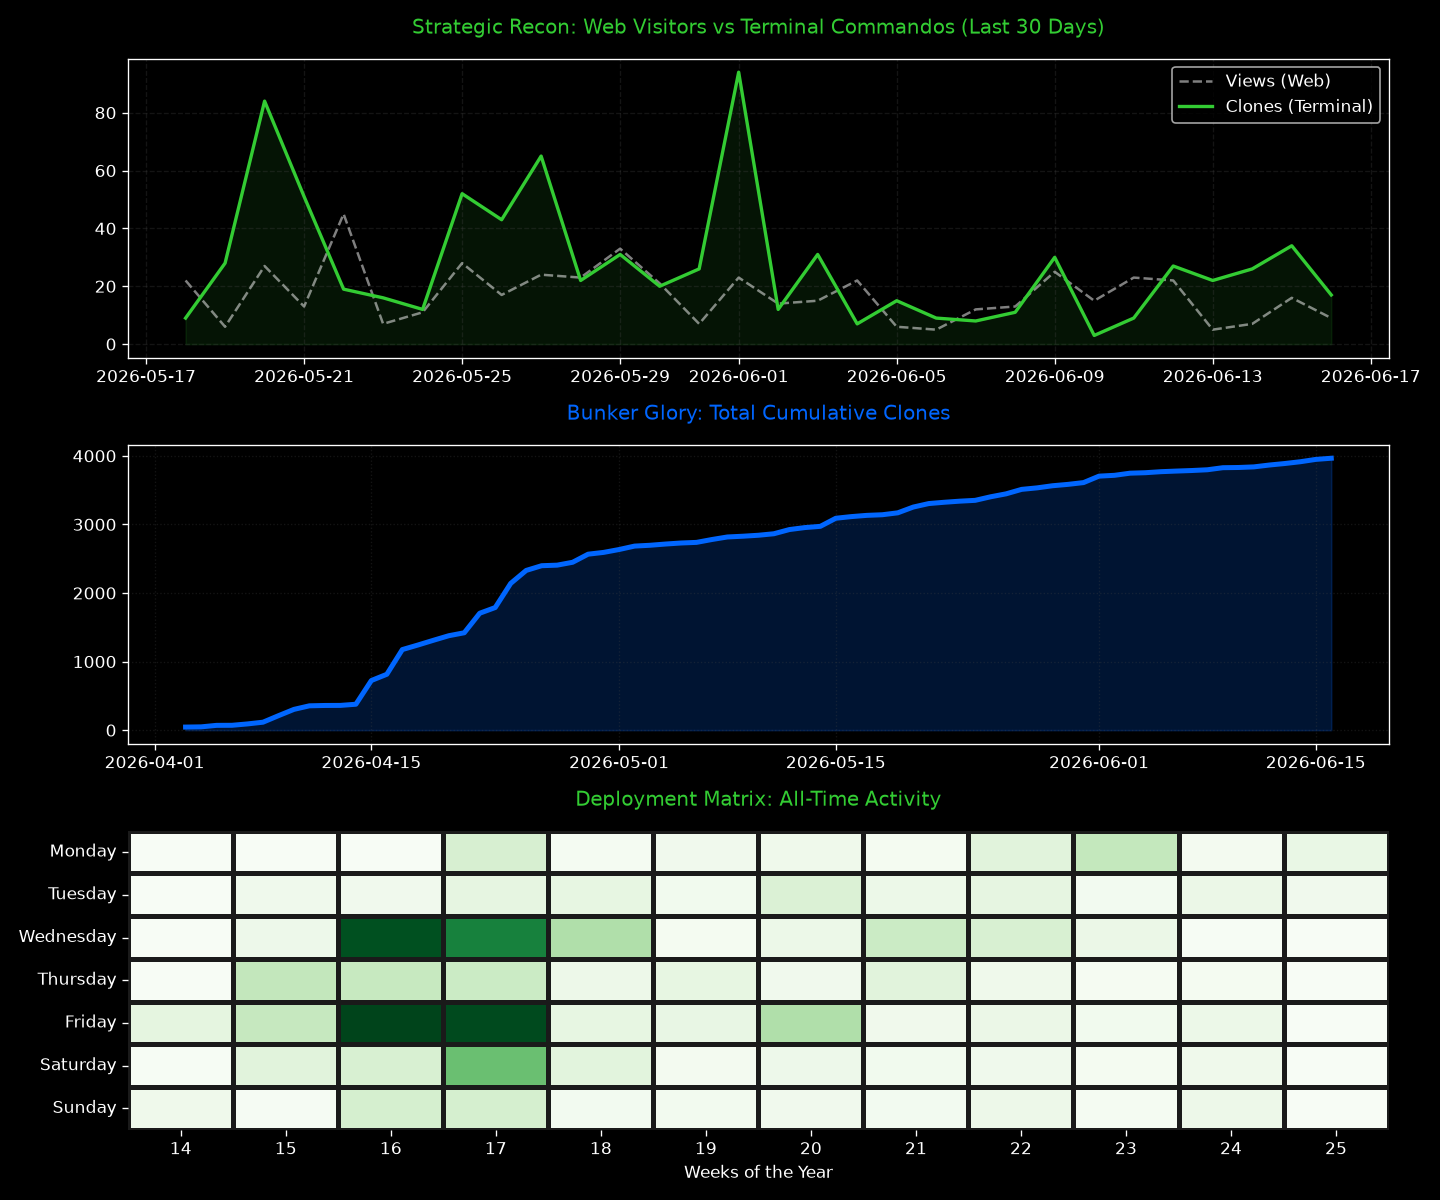
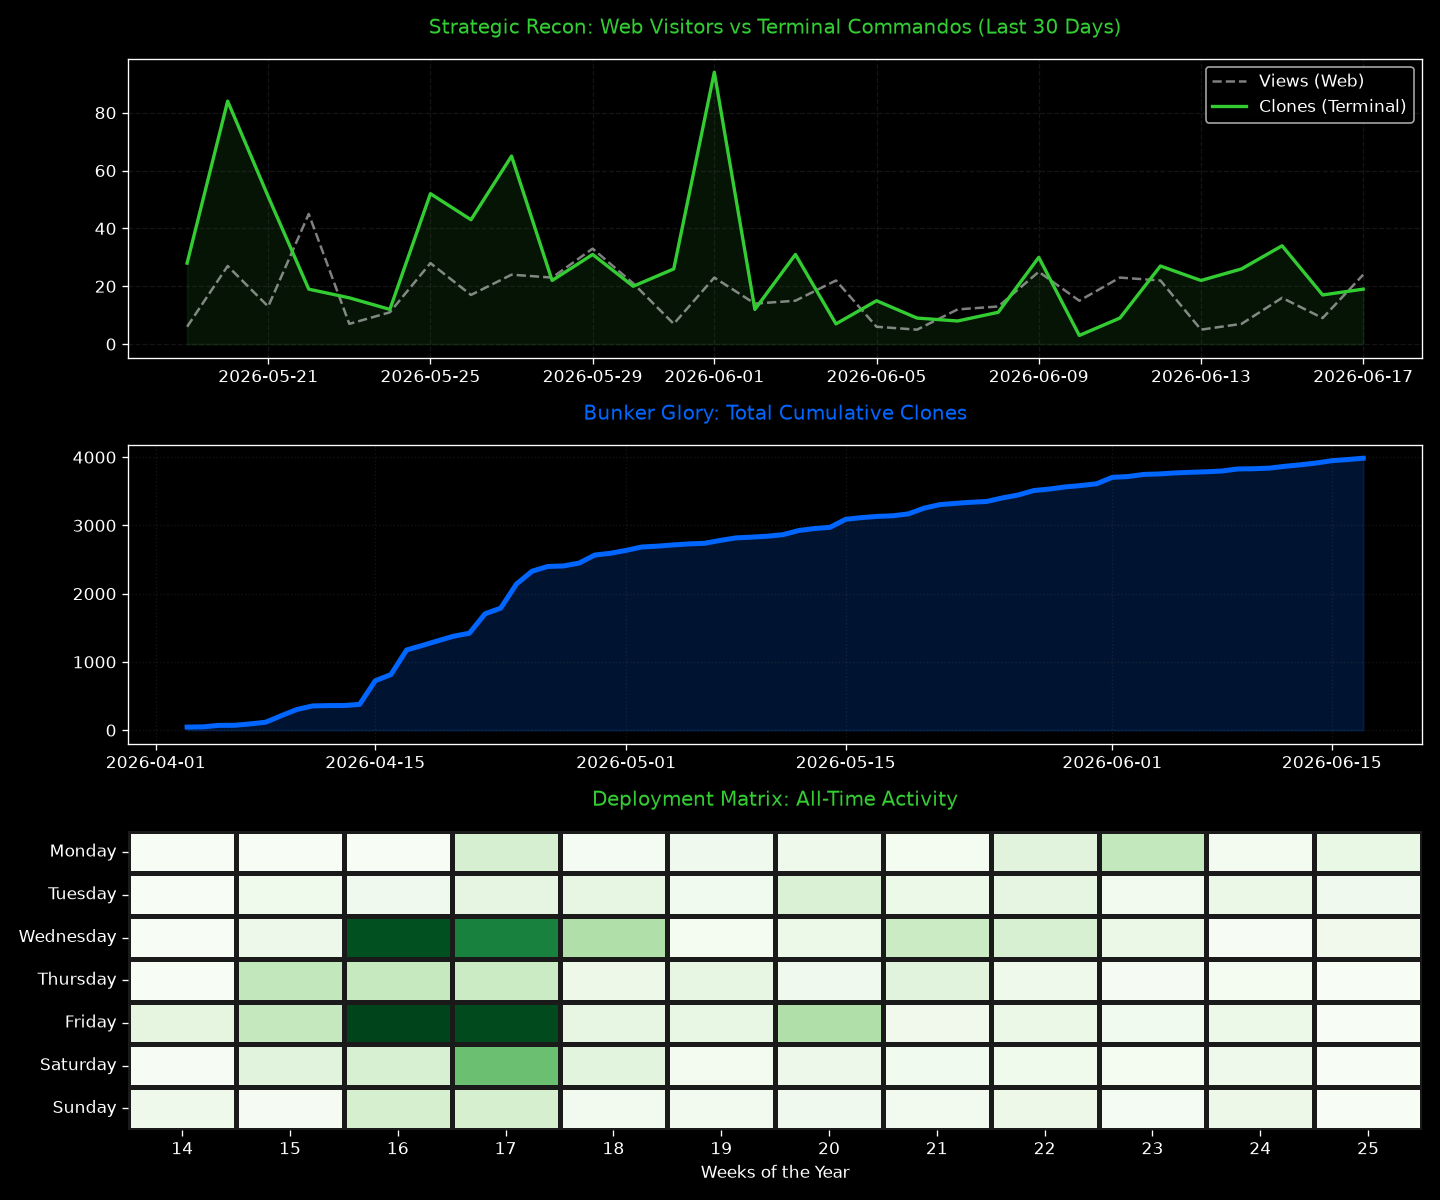
chore: sovereign update v7.0 - total 3984

diff --git a/README.md b/README.md
@@ -1,6 +1,6 @@
 # 🛰 地堡终极运行报告 (Sovereign Dashboard)
 ## 📊 核心战力指标
-- **物理克隆总计**: `3965` 次
+- **物理克隆总计**: `3984` 次
 - **当前社群声望**: ⭐ `2` / 🍴 `0`
 - **地堡协议防护**: AGPL-3.0 生效中
 
@@ -11,4 +11,4 @@
 | 来源站点 | 访问量 | 独立指挥官 |
 | :--- | :--- | :--- |
 
-> 📡 数据已物理封存：2026-06-17 21:34:02 CST | Glory to Mankind.
+> 📡 数据已物理封存：2026-06-18 21:49:34 CST | Glory to Mankind.
